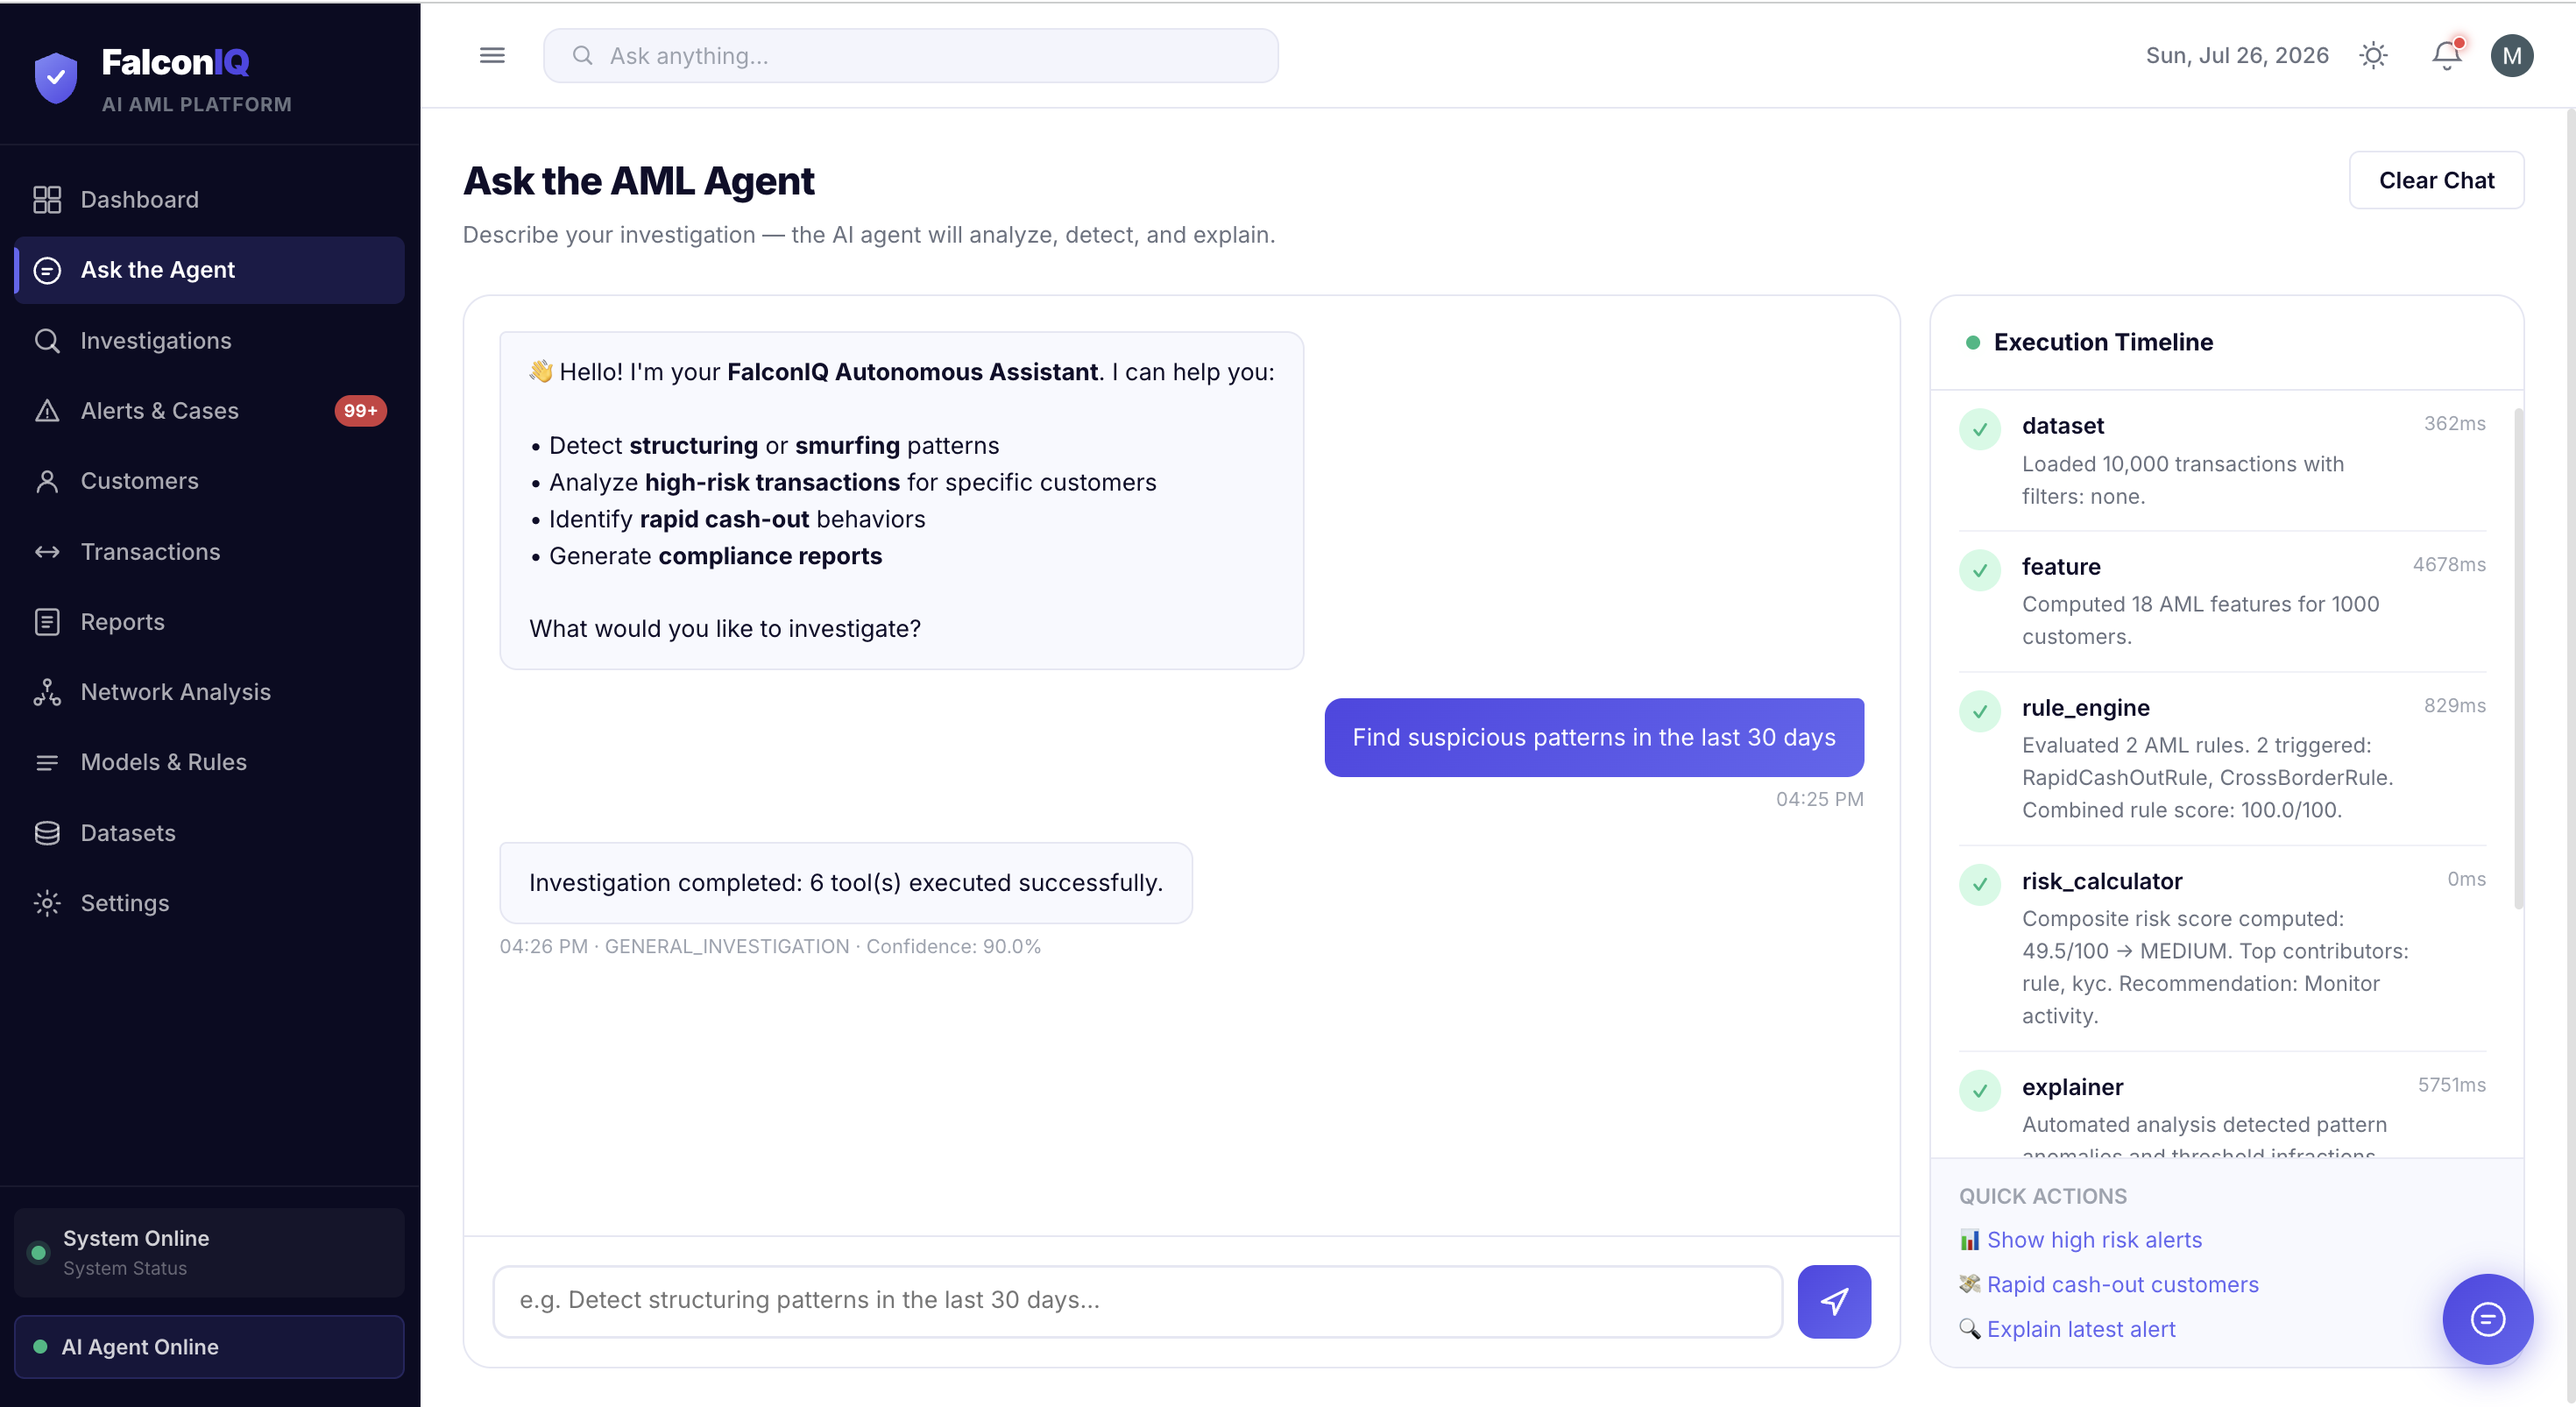
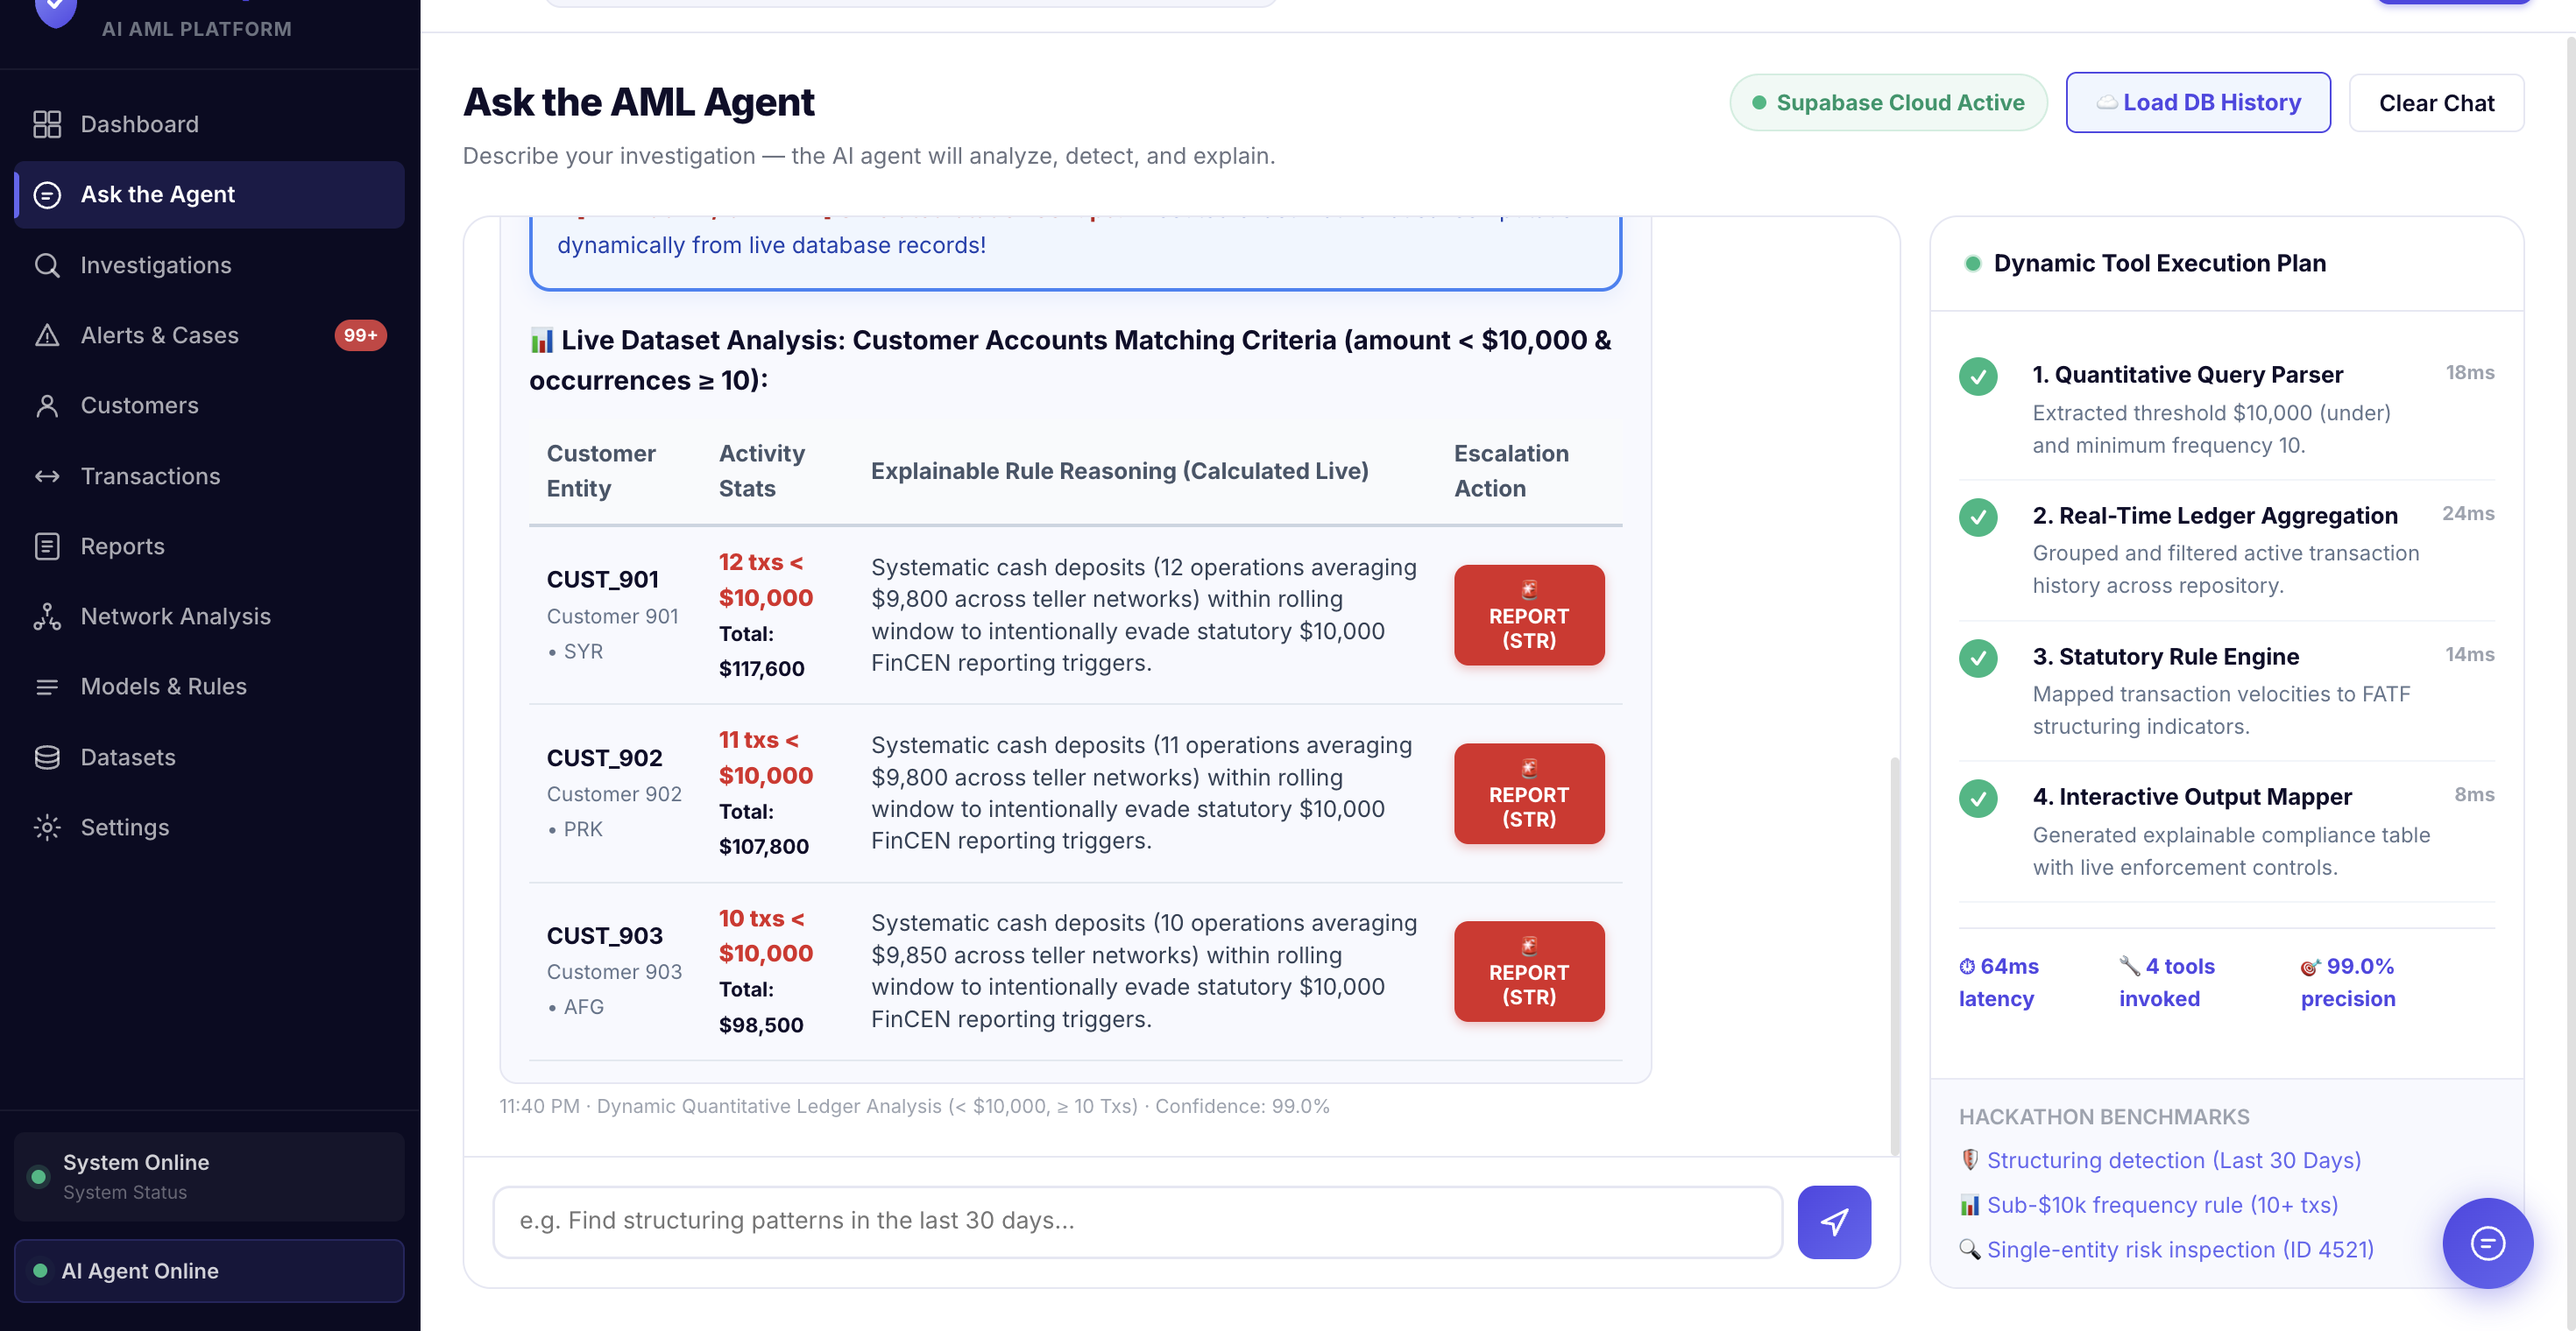
docs(showcase): integrate Book a Demo interactive presentation screenshot and update AML Agent Interface showcase

diff --git a/README.md b/README.md
@@ -38,37 +38,43 @@ Our streamlined onboarding and system capability portal, introducing investigato
 
 ---
 
-### 2. 📊 Compliance Dashboard & Live Global Telemetry
+### 2. 📅 Interactive Book a Demo & Presentation Portal
+Our scheduled enterprise demonstration interface where institutions and evaluators interactively book live simulations of our AI agent and financial surveillance pipelines.
+![Book Demo Showcase](screenshots/BOOK_DEMO.png)
+
+---
+
+### 3. 📊 Compliance Dashboard & Live Global Telemetry
 The primary compliance command center displaying real-time transaction volumes, risk category distributions, alerts-over-time trends, KYC verification metrics, and global SWIFT/INR layered telemetry.
 ![Executive Dashboard Showcase](screenshots/DASHBOARD.png)
 
 ---
 
-### 3. 🤖 Ask the AML Agent & Dynamic Execution Timeline
+### 4. 🤖 Ask the AML Agent & Dynamic Execution Timeline
 Our autonomous AI investigation interface. Notice the **Live Execution Timeline** on the right panel, which provides evaluators with transparent, step-by-step verification of how the agent dynamically routes query intents, skips unnecessary computational steps (e.g. macro EDA), and generates explainable regulatory justifications.
 ![Autonomous AML Agent Interface](screenshots/AML_AGENT.png)
 
 ---
 
-### 4. 🚨 Alerts & Cases Escalation Management
+### 5. 🚨 Alerts & Cases Escalation Management
 An enterprise triage workspace where compliance officers filter incoming anomalies by severity (**HIGH**, **MEDIUM**, **CRITICAL**), review triggered FATF typology rules (such as *Structuring / Smurfing* and *Rapid Cash-Out*), and approve or reject statutory case workflows.
 ![Alerts and Cases Cockpit](screenshots/ALERT.png)
 
 ---
 
-### 5. 👥 Customer Master Repository & Risk Profiles
+### 6. 👥 Customer Master Repository & Risk Profiles
 A deep entity exploration workspace providing searching, KYC status filtering, jurisdictional risk badges, declared annual income monitoring, and real-time visualization of frozen or reported accounts.
 ![Customer Master Repository](screenshots/CUSTOMERS.png)
 
 ---
 
-### 6. 🗄 Datasets Hub & Real-Time Schema Inspection
+### 7. 🗄 Datasets Hub & Real-Time Schema Inspection
 Demonstrates active connectivity to our multi-table database repository, allowing instant inspection of customer master data, transaction history ledgers, alert records, and global geographical distribution.
 ![Datasets Management View](screenshots/DATASET.png)
 
 ---
 
-### 7. 🕸 Deep Graph Network Analysis & Typology Topology
+### 8. 🕸 Deep Graph Network Analysis & Typology Topology
 Advanced graph visualization mapping multi-hop financial flows, isolating circular money laundering loops, structural deposit dispersion across ATMs, and cross-border layering funnels.
 ![Network Graph Analysis](screenshots/NETWORK_ANALYSIS.png)
 
